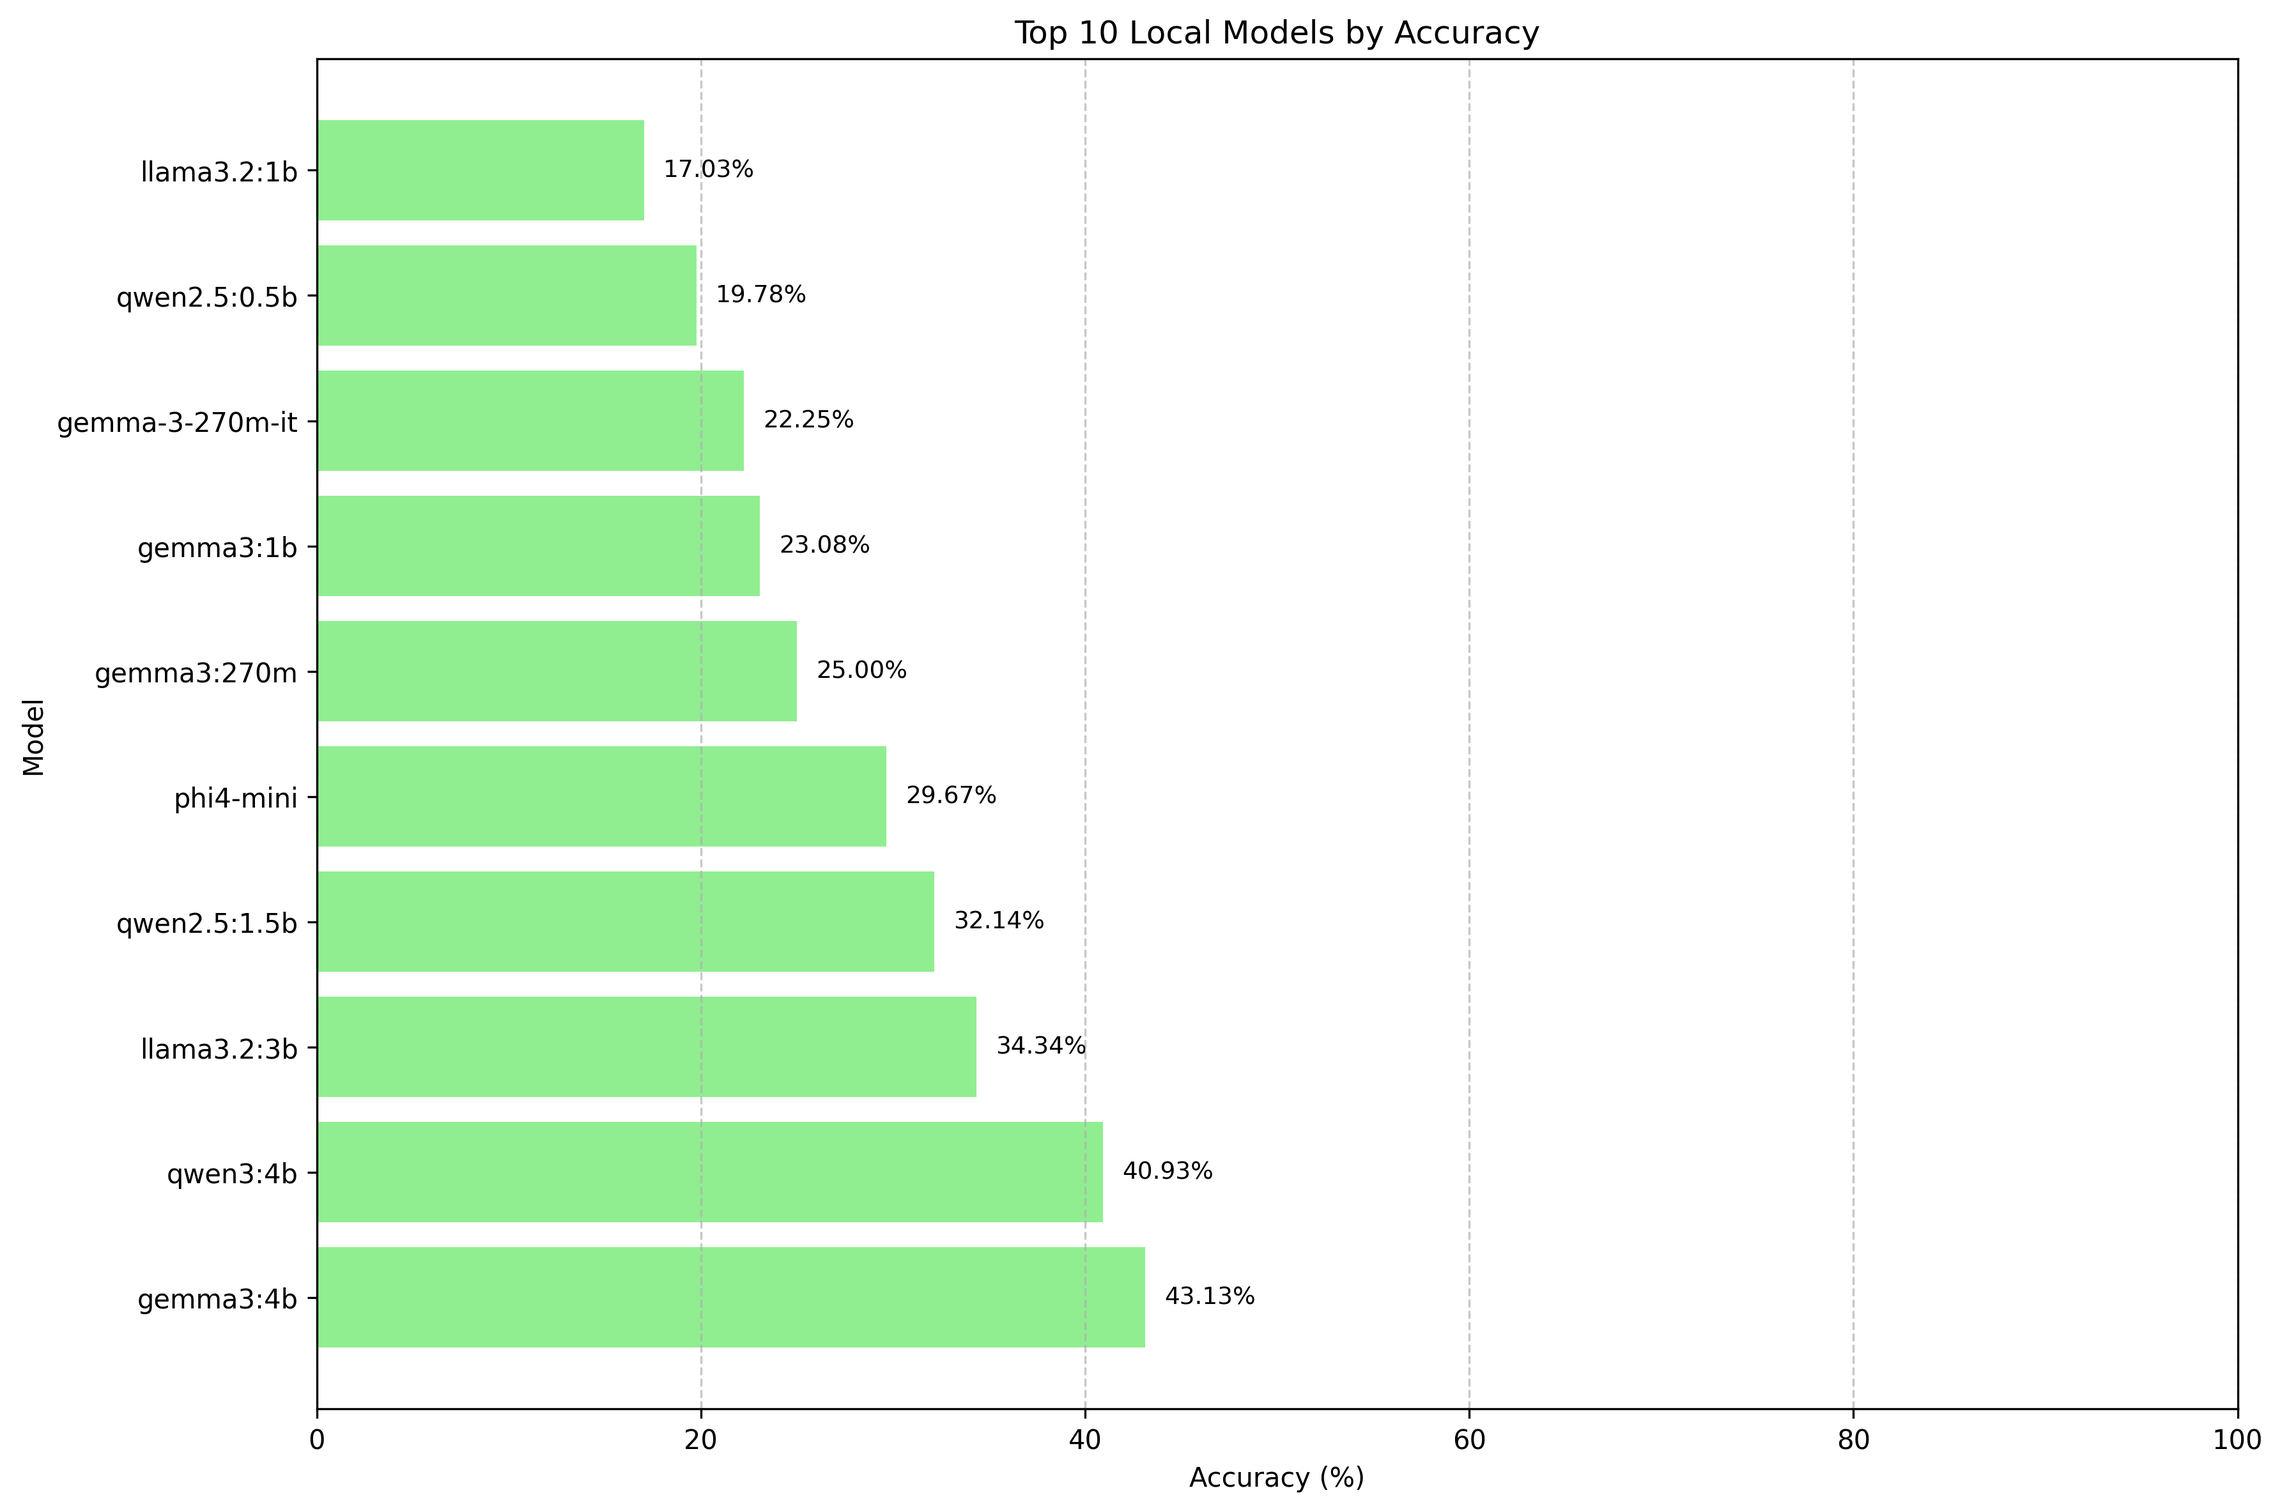
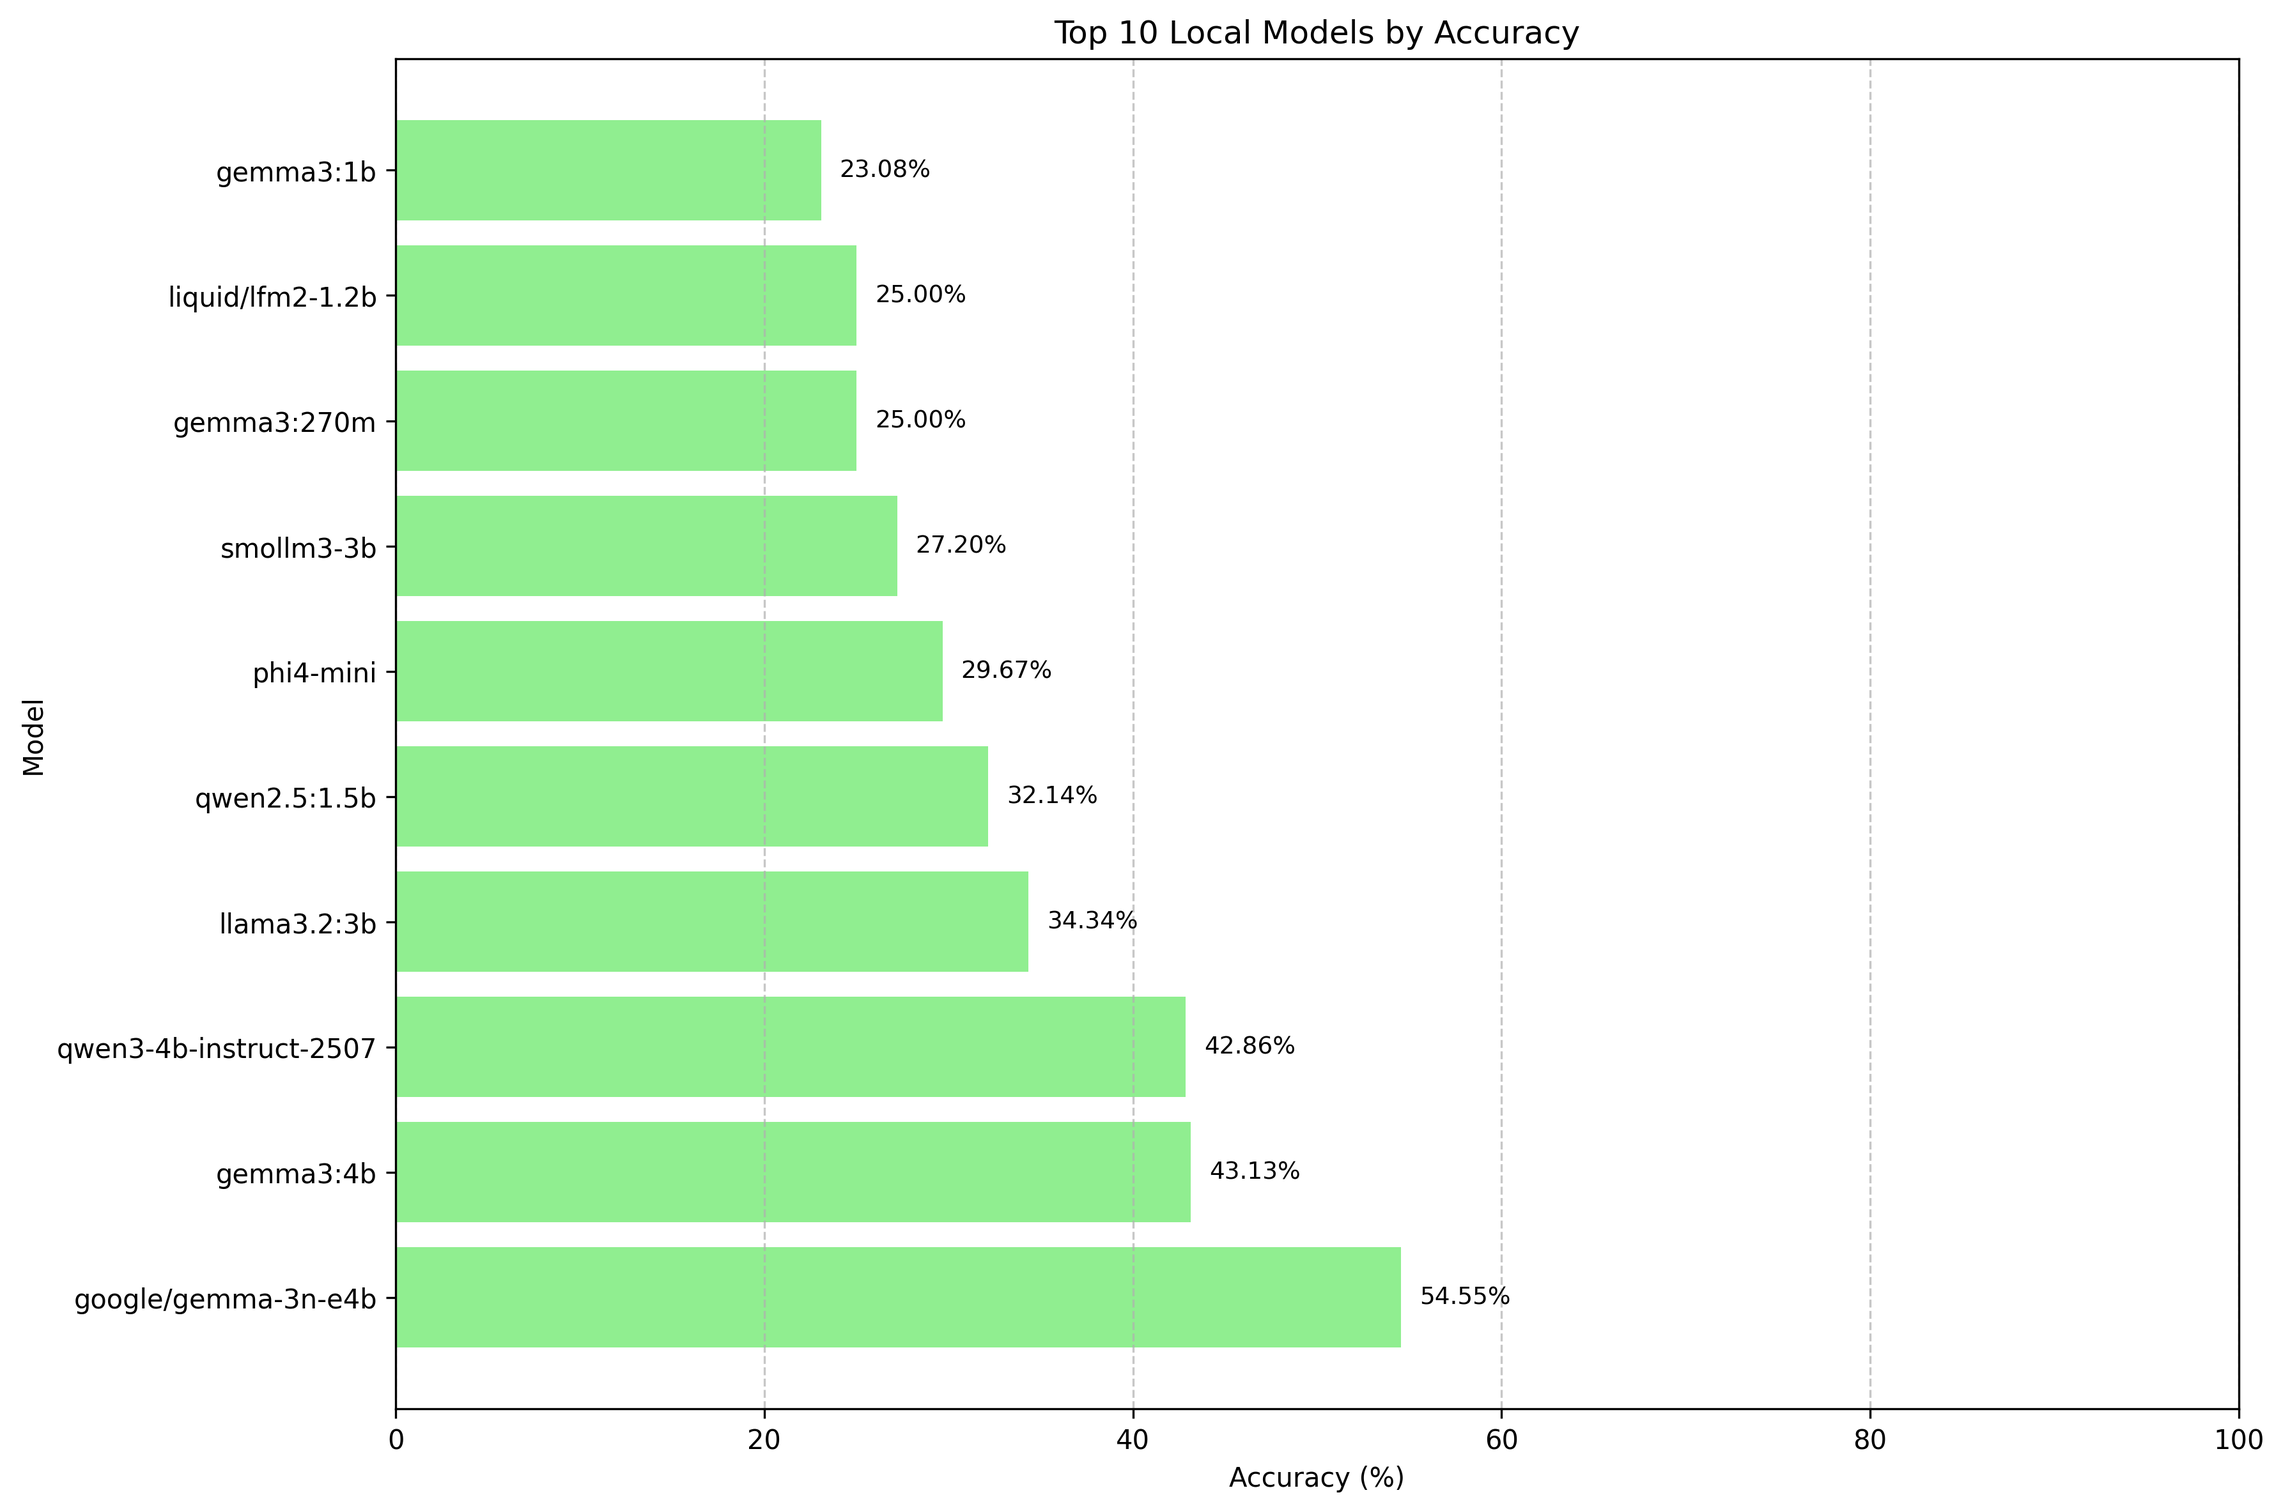
new models added

diff --git a/run_eval.py b/run_eval.py
@@ -5,6 +5,7 @@ import re
 import json
 import platform
 import subprocess
+from typing import Optional
 from openai import OpenAI, APITimeoutError, APIError, APIConnectionError
 from dotenv import load_dotenv
 from concurrent.futures import ThreadPoolExecutor, TimeoutError
@@ -13,9 +14,9 @@ load_dotenv()
 
 
 PROVIDER = "lmstudio"
-MODEL_NAME = "gemma-3-270m-it"
-MODEL_SIZE = "270m"
-LICENSE="open-weight (gemma)"
+MODEL_NAME = "qwen/qwen3-4b-thinking-2507"
+MODEL_SIZE = "4b"
+LICENSE="apache-2.0"
 
 # base urls
 BASE_URLS = {
@@ -42,11 +43,13 @@ CONFIG = {
     "base_url": BASE_URLS[PROVIDER],
     "api_key": API_KEYS[PROVIDER],
     "model": MODEL_NAME,
-    "temperature": 0.3,
-    "max_tokens": 100,
+    "temperature": 0.7,
+    "max_tokens": 4000,
     "top_p": 0.95,
+    "cool_down_time": [1,10],
+    "skip_unknown": True,
     "dataset": "parsi-eval-1.csv",
-    "output": "results\\parsi-eval-1.json"
+    "output": "results/parsi-eval-1.json"
 }
 
 
@@ -75,6 +78,27 @@ def get_gpu_info():
     except (ImportError, Exception):
         return "Unknown"
 
+def extract_choice_letter(text: Optional[str]) -> str:
+    """Extract the first standalone choice letter A-D.
+
+    Accepts matches even when surrounded by non-letter characters such as
+    asterisks, parentheses, punctuation, or whitespace (e.g., "**C)**", "(A)", "B.").
+    Ensures the extracted letter is not part of a longer ASCII word (e.g., avoids the 'A' in "RSA").
+
+    Args:
+        text: The model response text to parse.
+
+    Returns:
+        A single uppercase letter among {A, B, C, D} if found; otherwise "Unknown".
+    """
+    if text is None:
+        return "Unknown"
+
+    match = re.search(r"(?<![A-Za-z])[ABCD](?![A-Za-z])", text, flags=re.IGNORECASE)
+    if match:
+        return match.group(0).upper()
+    return "Unknown"
+
 def evaluate_model():
     model_name = CONFIG["model"]
     provider = PROVIDER
@@ -91,12 +115,16 @@ def evaluate_model():
     correct_count = 0
     total = len(questions)
     total_latency = 0
+    skipped_count = 0
+    evaluated_count = 0
+    attempted_count = 0
+    stop_requested = False
     
     print(f"Running evaluation on {total} questions...")
     
     for i, (question, correct) in enumerate(zip(questions, correct_answers)):
         messages = [
-            {'role': 'system', 'content': 'شما یک دستیار هوشمند هستید که به سوالات چند گزینهای پاسخ میدهد. شما باید فقط و فقط با یک حرف انگلیسی (A یا B یا C یا D) پاسخ دهید. هیچ توضیح اضافی یا متن دیگری قابل قبول نیست. فقط یک حرف.'},
+            {'role': 'system', 'content': 'شما یک دانشجو هستید که به سوالات چند گزینهای پاسخ میدهد. شما باید فقط و فقط با یک حرف انگلیسی (A یا B یا C یا D) پاسخ دهید. هیچ توضیح اضافی یا متن دیگری قابل قبول نیست. فقط یک حرف.'},
             {'role': 'user', 'content': question}
         ]
         response = None
@@ -111,7 +139,7 @@ def evaluate_model():
             try:
                 with ThreadPoolExecutor(max_workers=1) as executor:
                     future = executor.submit(get_model_response, model_name, messages)
-                    response = future.result(timeout=60) # Increased timeout for OpenAI
+                    response = future.result(timeout=90) # Increased timeout for OpenAI
             except TimeoutError:
                 end_time = time.time()
                 latency = end_time - start_time
@@ -142,6 +170,9 @@ def evaluate_model():
             print(f"Q{i+1}: Failed after {max_retries} retries. Marking as failed and skipping.")
             error_occurred = True
         
+        # Count this question as attempted regardless of outcome from the request cycle
+        attempted_count += 1
+
         if error_occurred:
             total_latency += latency
             print(f"Q{i+1}: Model answered Error, Correct: {correct} - ✗ ({latency:.2f}s)")
@@ -153,35 +184,76 @@ def evaluate_model():
         
         model_response = response.choices[0].message.content
         
-        # Check if model_response is None to avoid TypeError
-        if model_response is None:
-            model_answer = "Unknown"
-        else:
-            match = re.search(r'(?:^|\s)([ABCD])(?:\s|$|\.|\,|\))', model_response)
-            model_answer = match.group(1) if match else "Unknown"
+        # Extract choice letter robustly, allowing non-letter characters around it
+        model_answer = extract_choice_letter(model_response)
         
+        # Handle unparseable answers interactively
+        if model_answer == "Unknown":
+            print(
+                f"Q{i+1}: Could not parse a single-letter answer from model response.\n"
+                f"Raw response:\n{model_response}\n"
+            )
+            if CONFIG.get("skip_unknown", False):
+                skipped_count += 1
+                print(f"Q{i+1}: Skipped automatically due to CONFIG.skip_unknown=True. Correct: {correct} ({latency:.2f}s)")
+                # Do not count towards evaluated metrics; proceed to next question
+                continue
+            else:
+                while True:
+                    user_choice = input(
+                        "Skip this question and continue? (y to skip, n to stop eval): "
+                    ).strip().lower()
+                    if user_choice in ("y", "n"):
+                        break
+                    print("Invalid input. Please enter 'y' or 'n'.")
+
+                if user_choice == "n":
+                    stop_requested = True
+                    print("Stopping evaluation at user's request.")
+                    break
+                else:
+                    skipped_count += 1
+                    print(f"Q{i+1}: Skipped by user. Correct: {correct} ({latency:.2f}s)")
+                    # Do not count towards evaluated metrics; proceed to next question
+                    continue
+
         is_correct = model_answer == correct
         if is_correct:
             correct_count += 1
+        evaluated_count += 1
             
         print(f"Q{i+1}: Model answered {model_answer}, Correct: {correct} - {'✓' if is_correct else '✗'} ({latency:.2f}s)")
         
-    accuracy = (correct_count / total) * 100 if total > 0 else 0
-    avg_latency = total_latency / total if total > 0 else 0
-    print(f"\nEvaluation complete. Accuracy: {accuracy:.2f}% ({correct_count}/{total})")
+        # Add cool down time for local providers (ollama or lmstudio)
+        if PROVIDER in ['ollama', 'lmstudio'] and (i + 1) % CONFIG["cool_down_time"][0] == 0 and i < total - 1:
+            cool_down_seconds = CONFIG["cool_down_time"][1]
+            print(f"Cooling down for {cool_down_seconds} seconds after {CONFIG['cool_down_time'][0]} questions...")
+            time.sleep(cool_down_seconds)
+        
+    # Final metrics based on evaluated and attempted questions
+    accuracy = (correct_count / evaluated_count) * 100 if evaluated_count > 0 else 0
+    avg_latency = total_latency / attempted_count if attempted_count > 0 else 0
+    print(f"\nEvaluation complete. Accuracy: {accuracy:.2f}% ({correct_count}/{evaluated_count})")
     print(f"Average latency: {avg_latency:.2f}s, Total latency: {total_latency:.2f}s")
+    print(
+        f"Attempted: {attempted_count}, Evaluated (non-skipped): {evaluated_count}, "
+        f"Skipped: {skipped_count}, Stopped early: {'Yes' if stop_requested else 'No'}"
+    )
     
     # Check if provider is using localhost
     is_localhost = "localhost" in CONFIG["base_url"]
     gpu_info = get_gpu_info() if is_localhost else None
     
     new_result = {
-        "provider": PROVIDER,
         "model": model_name,
         "model_size": MODEL_SIZE,
         "license": LICENSE,
+        "provider": PROVIDER,
         "accuracy": f"{accuracy:.2f}%",
-        "total_questions": total,
+        "total_questions": evaluated_count,
+        "attempted_questions": attempted_count,
+        "skipped_questions": skipped_count,
+        "stopped_early": stop_requested,
         "correct_answers": correct_count,
         "avg_latency": f"{avg_latency:.2f}s",
         "total_latency": f"{total_latency:.2f}s",
@@ -194,10 +266,23 @@ def evaluate_model():
     try:
         with open(CONFIG["output"], 'r', encoding='utf-8') as json_file:
             results = json.load(json_file)
+            
+            # Check if model already exists in results
+            model_exists = False
+            for i, result in enumerate(results):
+                if result.get("model") == model_name:
+                    # Replace existing model data with new data
+                    results[i] = new_result
+                    model_exists = True
+                    print(f"Updated existing data for model: {model_name}")
+                    break
+                    
+            # If model doesn't exist, append new result
+            if not model_exists:
+                results.append(new_result)
     except FileNotFoundError:
         results = []
-
-    results.append(new_result)
+        results.append(new_result)
     
     with open(CONFIG["output"], 'w', encoding='utf-8') as json_file:
         json.dump(results, json_file, ensure_ascii=False, indent=4)
@@ -210,4 +295,5 @@ def evaluate_model():
     except subprocess.CalledProcessError as e:
         print(f"Error updating visualizations: {e}")
 
-evaluate_model()
+if __name__ == "__main__":
+    evaluate_model()

diff --git a/create_visuals.py b/create_visuals.py
@@ -6,7 +6,7 @@ import numpy as np
 import re
 from pathlib import Path
 
-INPUT_FILE = "results\\parsi-eval-1.json"
+INPUT_FILE = "results/parsi-eval-1.json"
 PLOTS_DIR = "plots"
 README_FILE = "README.md"
 

diff --git a/README.md b/README.md
@@ -42,25 +42,28 @@ Here are the results of the evaluation for different models:
 | 12 | gpt-oss-120b | 120b | apache-2.0 | cerebras | 2.84s | 1034.47s | 70.05% |
 | 13 | gemma-3-27b-it | 27b | open-weight-gemma | openrouter | 1.13s | 409.72s | 67.03% |
 | 14 | qwen3-30b-a3b-thinking | 30b | apache-2.0 | openrouter | 10.29s | 3744.42s | 65.66% |
-| 15 | gpt-oss-20b | 20b | apache-2.0 | cerebras | 2.73s | 994.36s | 63.74% |
-| 16 | gpt-4.1-nano | unknown | proprietary | openai | 1.05s | 382.53s | 63.74% |
+| 15 | gpt-4.1-nano | unknown | proprietary | openai | 1.05s | 382.53s | 63.74% |
+| 16 | gpt-oss-20b | 20b | apache-2.0 | cerebras | 2.73s | 994.36s | 63.74% |
 | 17 | gemma2-9b-it | 9b | open-weight-gemma | groq | 2.24s | 815.02s | 59.62% |
 | 18 | mistral-small-2503 | 24 | apache-2.0 | openrouter | 2.60s | 948.16s | 59.34% |
 | 19 | qwen-3-32b | 32b | apache-2.0 | groq | 1.86s | 677.18s | 59.07% |
 | 20 | qwen3-30b-a3b-instruct-2507 | 30b | apache-2.0 | openrouter | 0.74s | 267.75s | 57.69% |
-| 21 | gemma3:4b | 4B | open-weight-gemma | ollama | 0.13s | 46.63s | 43.13% |
-| 22 | qwen3:4b | 4B | apache-2.0 | ollama | 0.40s | 145.36s | 40.93% |
-| 23 | qwen-3-32b-thinking | 32b | apache-2.0 | openrouter | 1.91s | 693.84s | 37.64% |
-| 24 | llama3.2:3b | 3B | open-weight-llama3 | ollama | 0.13s | 46.11s | 34.34% |
-| 25 | qwen2.5:1.5b | 1.5B | apache-2.0 | ollama | 0.07s | 24.79s | 32.14% |
-| 26 | qwen-3-235b-a22b-thinking-2507 | 235b | apache-2.0 | cerebras | 2.33s | 849.16s | 29.67% |
-| 27 | phi4-mini | 1.3B | mit | ollama | 0.24s | 88.75s | 29.67% |
-| 28 | gemma3:270m | 270M | open-weight-gemma | ollama | 0.16s | 58.82s | 25.00% |
-| 29 | gemma3:1b | 1B | open-weight-gemma | ollama | 0.19s | 70.21s | 23.08% |
-| 30 | gemma-3-270m-it | 270m | open-weight-gemma | lmstudio | 0.04s | 14.47s | 22.25% |
-| 31 | qwen2.5:0.5b | 0.5B | apache-2.0 | ollama | 1.00s | 365.51s | 19.78% |
-| 32 | llama3.2:1b | 1B | open-weight-llama3.2 | ollama | 0.17s | 63.05s | 17.03% |
-| 33 | gemma2:2b | 2B | open-weight-gemma | ollama | 0.81s | 295.59s | 15.93% |
+| 21 | google/gemma-3n-e4b | 4b | open-weight-gemma | lmstudio | 0.17s | 63.68s | 54.55% |
+| 22 | gemma3:4b | 4B | open-weight-gemma | ollama | 0.13s | 46.63s | 43.13% |
+| 23 | qwen3-4b-instruct-2507 | 4b | apache-2.0 | lmstudio | 0.23s | 83.35s | 42.86% |
+| 24 | qwen-3-32b-thinking | 32b | apache-2.0 | openrouter | 1.91s | 693.84s | 37.64% |
+| 25 | llama3.2:3b | 3B | open-weight-llama3 | ollama | 0.13s | 46.11s | 34.34% |
+| 26 | qwen2.5:1.5b | 1.5B | apache-2.0 | ollama | 0.07s | 24.79s | 32.14% |
+| 27 | qwen-3-235b-a22b-thinking-2507 | 235b | apache-2.0 | cerebras | 2.33s | 849.16s | 29.67% |
+| 28 | phi4-mini | 1.3B | mit | ollama | 0.24s | 88.75s | 29.67% |
+| 29 | smollm3-3b | 3b | apache-2.0 | lmstudio | 0.26s | 94.60s | 27.20% |
+| 30 | gemma3:270m | 270M | open-weight-gemma | ollama | 0.16s | 58.82s | 25.00% |
+| 31 | liquid/lfm2-1.2b | 1.2b | open-weight-lfm1.0 | lmstudio | 0.67s | 243.90s | 25.00% |
+| 32 | gemma3:1b | 1B | open-weight-gemma | ollama | 0.19s | 70.21s | 23.08% |
+| 33 | gemma-3-270m-it | 270m | open-weight-gemma | lmstudio | 0.05s | 17.19s | 21.15% |
+| 34 | qwen2.5:0.5b | 0.5B | apache-2.0 | ollama | 1.00s | 365.51s | 19.78% |
+| 35 | llama3.2:1b | 1B | open-weight-llama3.2 | ollama | 0.17s | 63.05s | 17.03% |
+| 36 | gemma2:2b | 2B | open-weight-gemma | ollama | 0.81s | 295.59s | 15.93% |
 
 
 ### Accuracy
